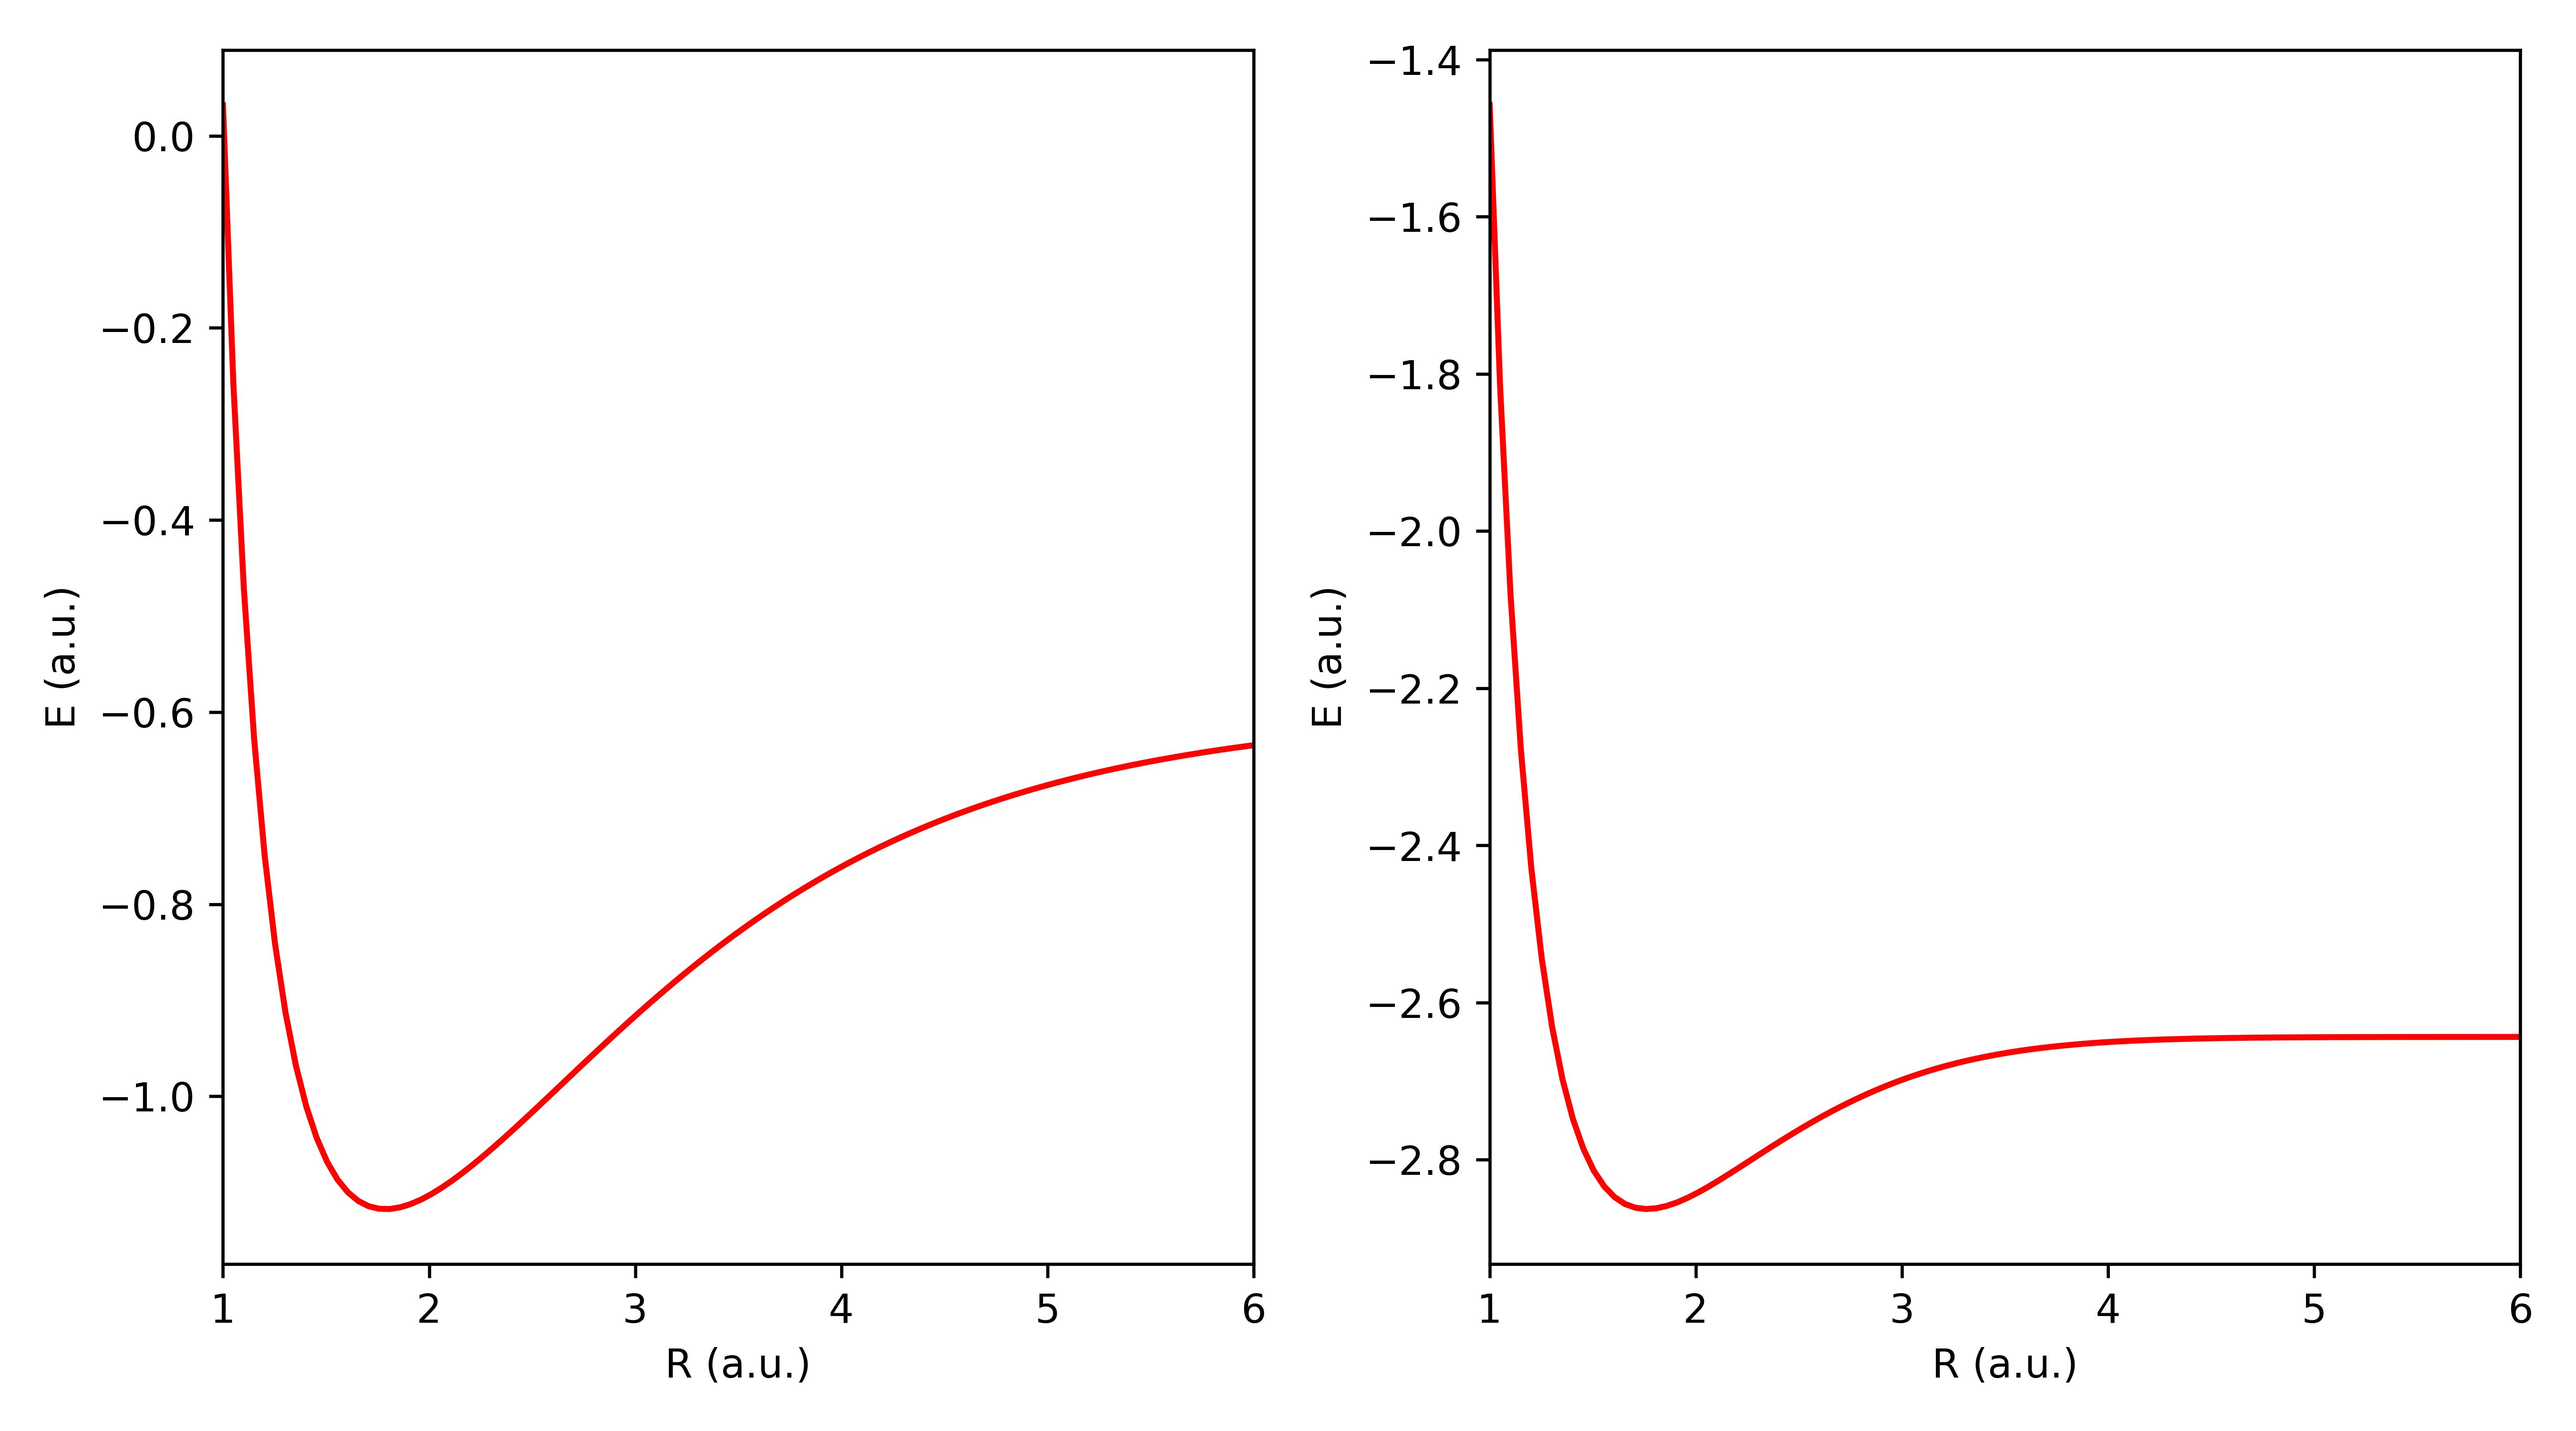
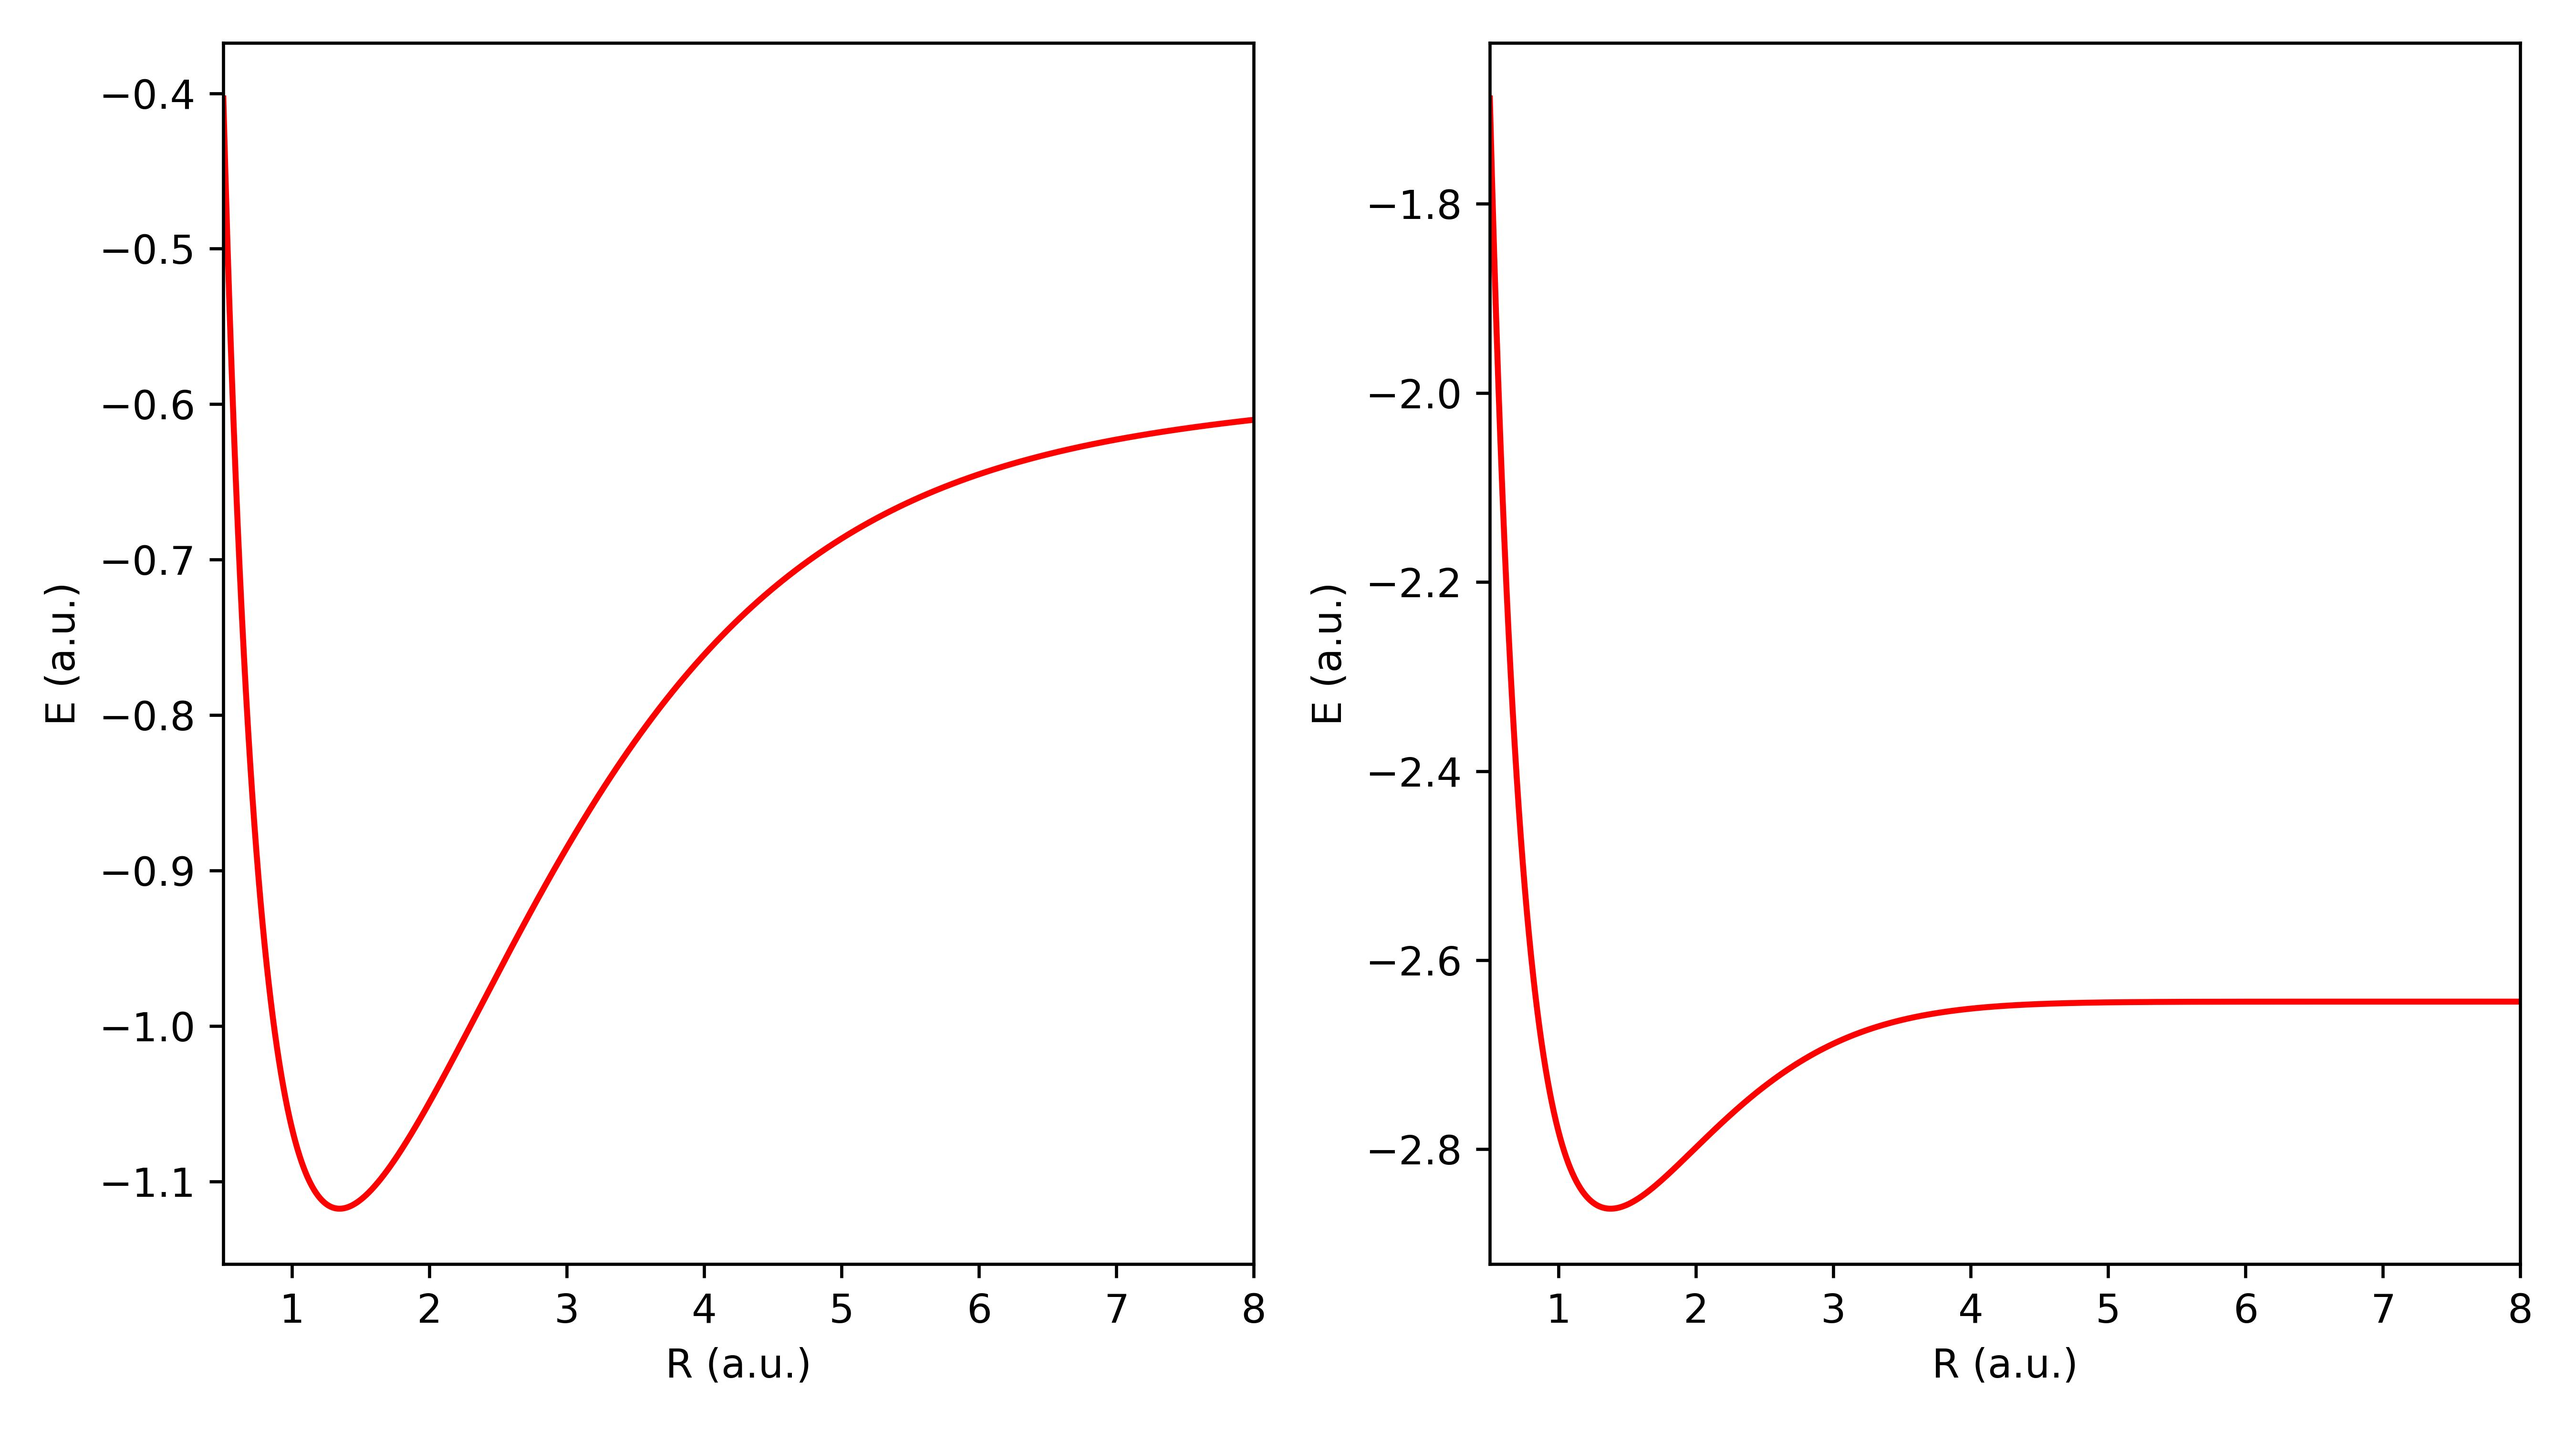
Corrected R_array problem. Updated README

diff --git a/Practical Session 4/PES.py b/Practical Session 4/PES.py
@@ -10,8 +10,10 @@ Diego Ontiveros
 # Imported from the module RHF created, 
 # which contains all the functions and classes needed.
 from RHF import Molecule, RHF
+from time import time
 import matplotlib.pyplot as plt
 import numpy as np
+to = time()
 
 # INPUT PARAMETERS
 N = 2
@@ -19,7 +21,7 @@ RHHe = 1.4632
 RHH = 1.4
 ZH,ZHe = 1,2
 zH,zHe = 1.24,2.0926
-R_array = np.linspace(1,6,100)
+R_array = np.linspace(0.5,8,1000)
 
 # GENERATING MOLECULES 
 H2 = Molecule(
@@ -38,17 +40,18 @@ HeH = Molecule(
 
 # SCF PES PROCEIDURE for H2
 scf = RHF(H2,NG=3)
-PES_H2, r = scf.PES()
+PES_H2, r = scf.PES(R_array)
 
 # SCF PES PROCEIDURE for HeH
 scf = RHF(HeH,NG=3)
-PES_HeH, r = scf.PES()
+PES_HeH, r = scf.PES(R_array)
+
 
 # Plotting PES
 fig,(ax1,ax2) = plt.subplots(1,2, figsize=(9,5))
 
-ax1.plot(R_array,PES_H2,c="r")
-ax2.plot(R_array,PES_HeH,c="r")
+ax1.plot(r,PES_H2,c="r")
+ax2.plot(r,PES_HeH,c="r")
 
 ax1.set_xlim(R_array[0],R_array[-1]);ax2.set_xlim(R_array[0],R_array[-1])
 ax1.set_xlabel("R (a.u.)"); ax2.set_xlabel("R (a.u.)")
@@ -57,4 +60,7 @@ ax1.set_ylabel("E (a.u.)"); ax2.set_ylabel("E (a.u.)")
 fig.tight_layout()
 
 fig.savefig("PES.jpg",dpi=600)
+
+tf = time()
+print(f"\nProcess finished in {tf-to:.4f}s\n")
 plt.show()

diff --git a/Practical Session 4/README.md b/Practical Session 4/README.md
@@ -4,7 +4,9 @@ In this folder are found the problems for Practical Session 4, their corresponde
 
 `RHF.py` : Module that contains the Moleucle and RHF class and all the functions needed for the SCF, integrals, calculations, ...
 
-`p1.py` : Problem 1. General RHF for diatomic molecules. Generates PES.
+`PES.py` : Problem 1. Generates PES of the ground state for $H_2$ and $HeH^+$ and searches for the minimum configuration.
+
+`SinglePoint.py` : Calculates SCF for a fixed configuration.
 
 
 
